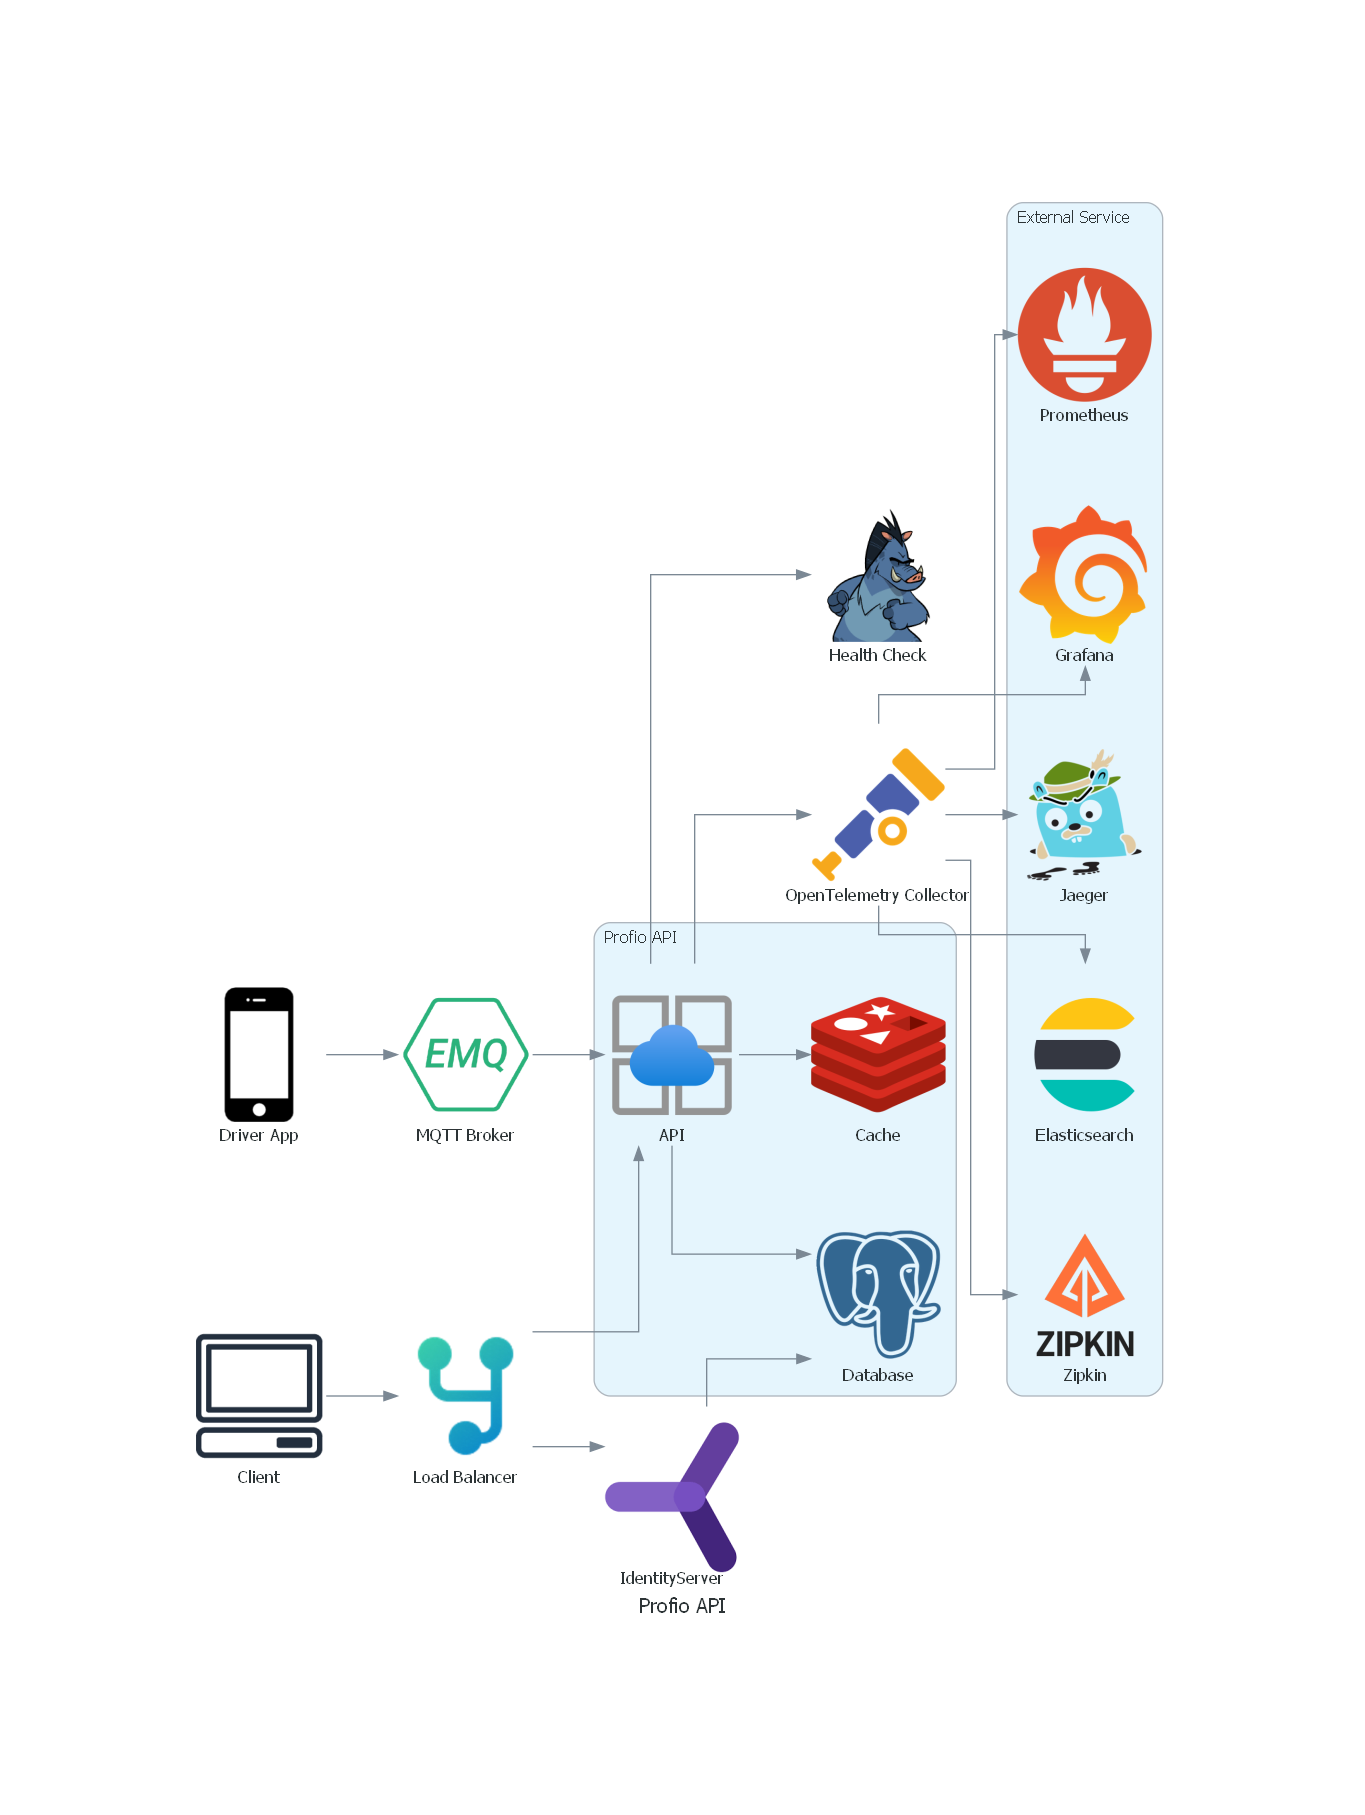
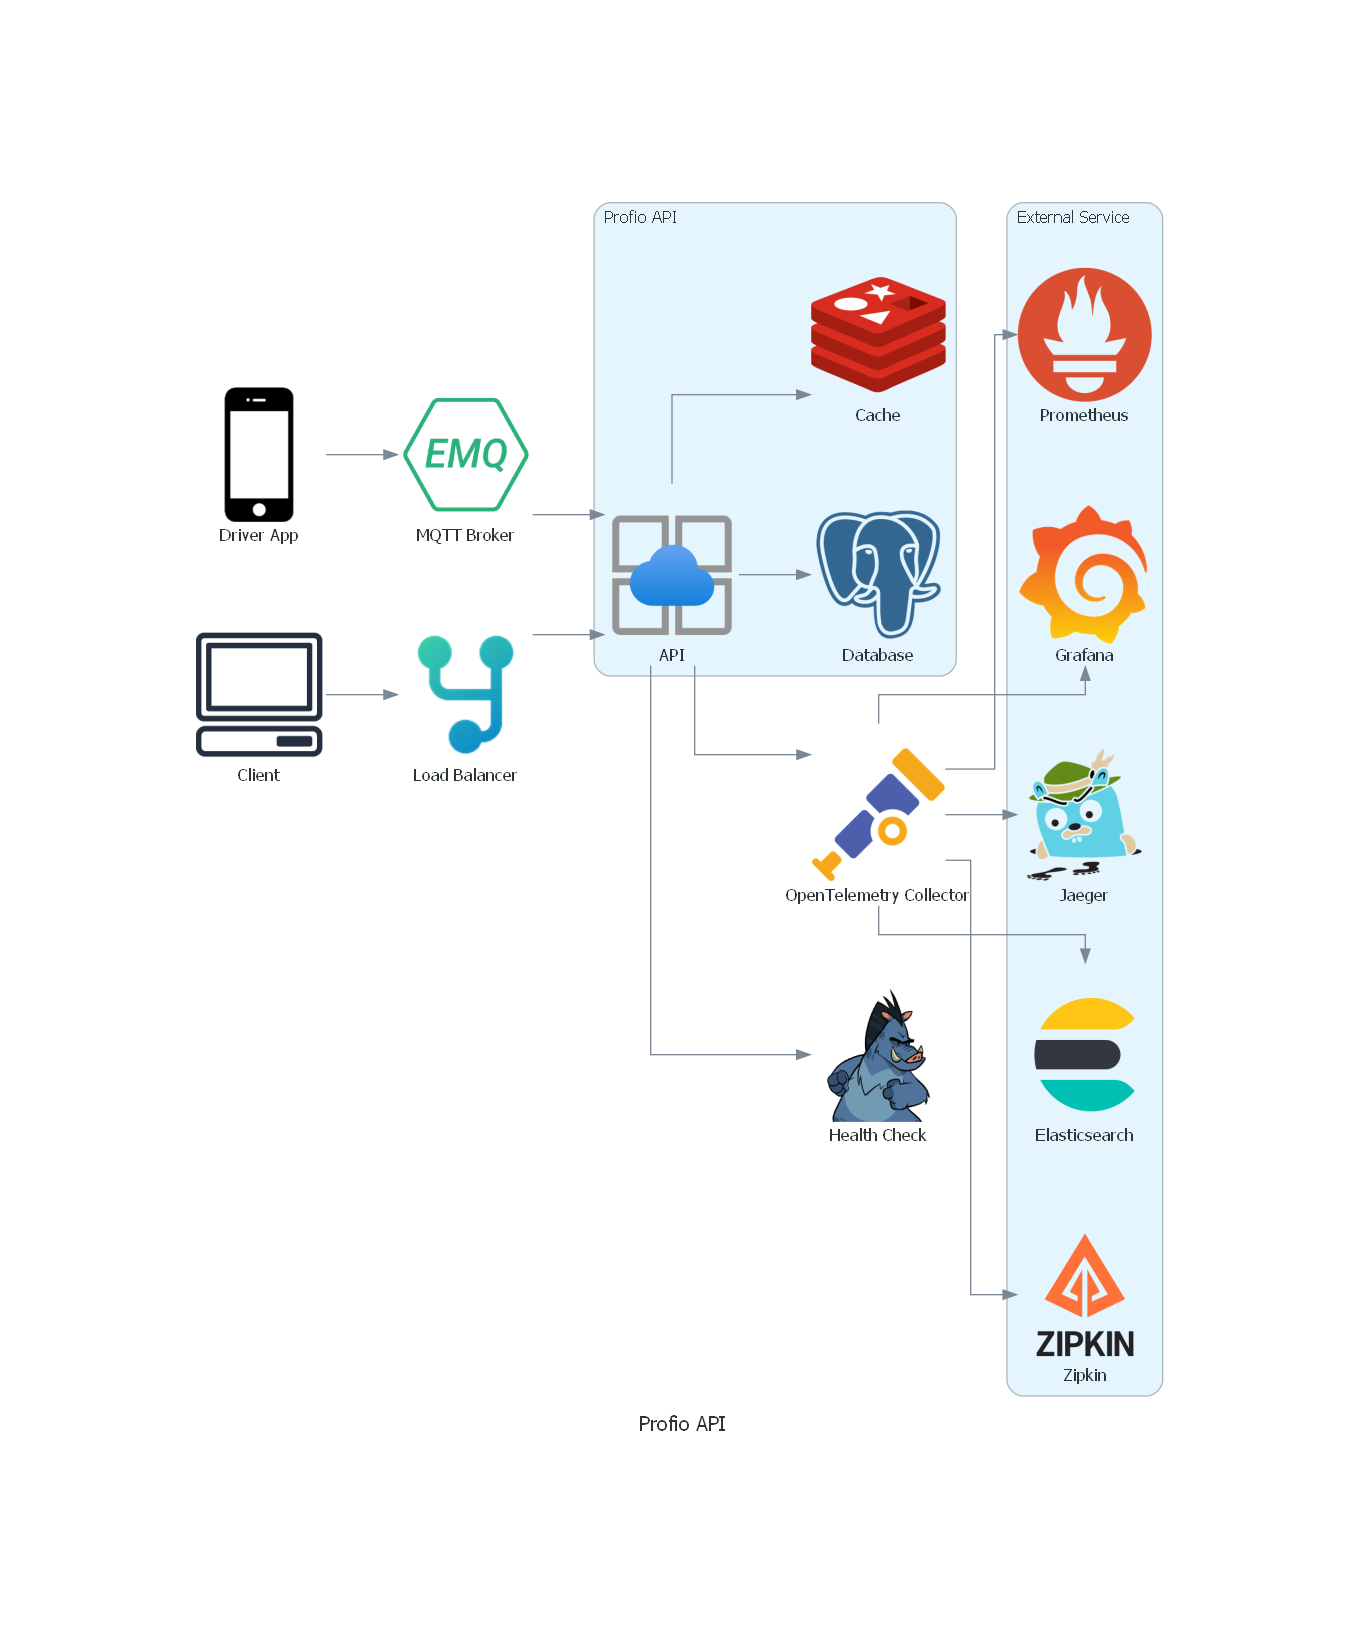
update dac

diff --git a/assets/dac/az-api.py b/assets/dac/az-api.py
@@ -14,7 +14,6 @@ from diagrams.generic.device import Mobile
 with Diagram("Profio API", show=False, direction="LR"):
   lb = Yarp("Load Balancer")
   otelcollector = Custom("OpenTelemetry Collector", "./resources/otel.png")
-  duende = Custom("IdentityServer", "./resources/duende.png")
   broker = Custom("MQTT Broker", "./resources/emqtt.png")
   hc = Custom("Health Check", "./resources/health-check.png")
 
@@ -28,8 +27,6 @@ with Diagram("Profio API", show=False, direction="LR"):
     api >> cache
 
   lb >> api
-  lb >> duende
-  duende >> db
   api >> otelcollector
   Mobile("Driver App") >> broker >> api
   api >> hc
@@ -46,4 +43,3 @@ with Diagram("Profio API", show=False, direction="LR"):
   otelcollector >> Jaeger
   otelcollector >> ELK
   otelcollector >> Zipkin
-
